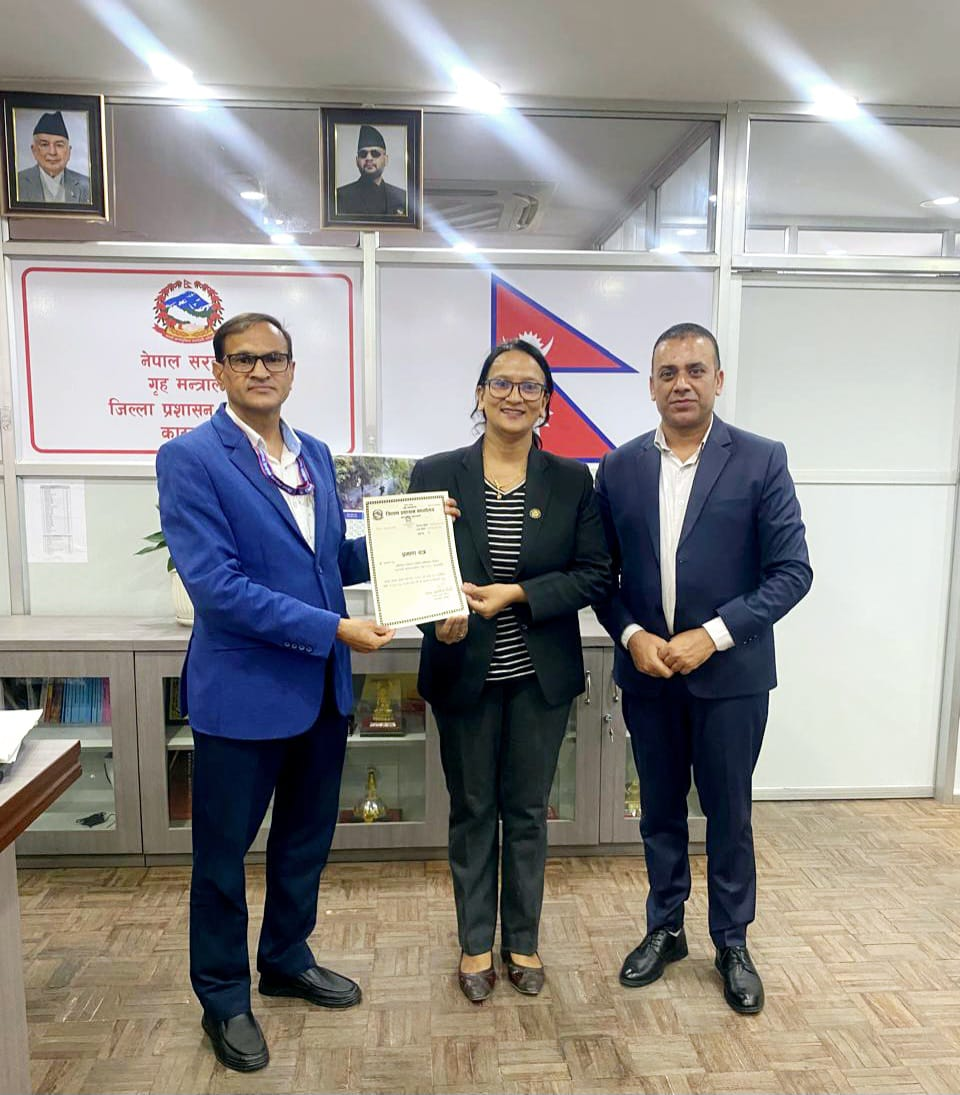
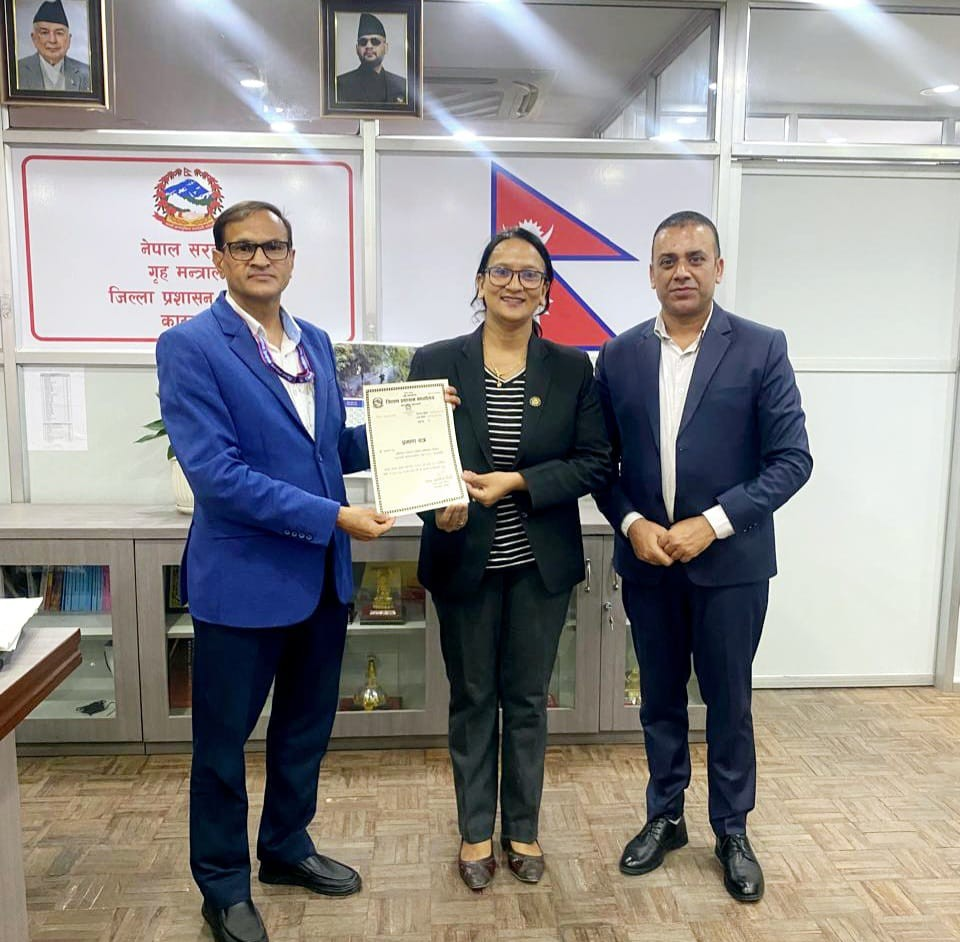
some changes in minute details

diff --git a/src/pages/Gallery.jsx b/src/pages/Gallery.jsx
@@ -26,14 +26,7 @@ const PageBanner = ({ titleEn, titleNp }) => {
 export const galleryItems = [
   { id: 10, src: '/images/gallery/meetings/photo1.jpeg', altEn: 'A constructive discussion on the website outline, content, and future direction was held at the organization’s Thapathali office. The meeting was attended by senior advocate and mediation expert Dr. Kumar Sharma Acharya, Mediation Council member Advocate Chup Bahadur Thapa, Chairperson Advocate Sushila Singhkhada, and organization officials. Held on 1 Ashoj 2083 B.S., Wednesday.', altNp: 'संस्थाकाे वेबसाइटको रूपरेखा, सामग्री तथा आगामी कार्यदिशाका सम्बन्धमा मेलमिलाप विज्ञ वरिष्ठ अधिवक्ता डा. कुमार शर्मा आचार्य र मेलमिलाप परिषद्का सदस्य अधिवक्ता चूप बहादुर थापाज्यू सहित संस्थाका अध्यक्ष अधिवक्ता शुसिला सिंखडा तथा पदाधिकारीहरुको उपस्थितिमा रचनात्मक छलफल संस्थाको थापाथलीस्थित कार्यालयमा सम्पन्न भयो। ईति संवत् २०८३ असाेज १ गते राेज ५ शुभम् ....।', color: 'from-sky to-sky-light', categoryEn: 'Meeting', categoryNp: 'बैठक' },
   { id: 1, src: '/images/gallery/milestone/cdo-registration.jpeg', altEn: 'Registered with the Chief District Officer, Kathmandu, on 4 Bhadra 2083. The registration certificate was issued by the District Administration Office.', altNp: 'जिल्ला प्रशासन कार्यालय काठमाडौंमा संस्था दर्ता गरेपश्चात् प्रमुख जिल्ला अधिकारी ईश्वर राज पौडेलबाट संस्था दर्ता प्रमाणपत्र ग्रहण गर्दै अधिकार, समता र शान्ति अभियान–नेपालकी अध्यक्ष अधिवक्ता शुशिला सिंखडा।', color: 'from-navy to-navy-light', categoryEn: 'Milestone', categoryNp: 'उपलब्धि' },
-  { id: 2, src: null, altEn: 'Mediation Workshop 2083', altNp: 'मेलमिलाप कार्यशाला २०८३', color: 'from-sky to-sky-light', categoryEn: 'Workshop', categoryNp: 'कार्यशाला' },
-  { id: 3, src: null, altEn: 'Community Awareness Program', altNp: 'सामुदायिक सचेतना कार्यक्रम', color: 'from-slate-600 to-slate-500', categoryEn: 'Awareness', categoryNp: 'सचेतना' },
-  { id: 4, src: null, altEn: ' Legal Aid Camp', altNp: ' कानुनी सहायता शिविर', color: 'from-blue-600 to-blue-500', categoryEn: 'Legal Aid', categoryNp: 'कानुनी सहायता' },
-  { id: 5, src: null, altEn: 'Peace Campaign 2083', altNp: 'शान्ति अभियान २०८३', color: 'from-cyan-700 to-cyan-600', categoryEn: 'Campaign', categoryNp: 'अभियान' },
-  { id: 6, src: null, altEn: 'Annual General Meeting 2083', altNp: 'वार्षिक साधारण सभा २०८३', color: 'from-blue-800 to-blue-700', categoryEn: 'Meeting', categoryNp: 'सभा' },
-  { id: 7, src: null, altEn: 'Child Rights Awareness Event', altNp: 'बाल अधिकार सचेतना कार्यक्रम', color: 'from-sky-700 to-sky-600', categoryEn: 'Event', categoryNp: 'कार्यक्रम' },
-  { id: 8, src: null, altEn: 'Women Empowerment Program', altNp: 'महिला सशक्तिकरण कार्यक्रम', color: 'from-slate-700 to-slate-600', categoryEn: 'Program', categoryNp: 'कार्यक्रम' },
-  { id: 9, src: null, altEn: 'Mediation Center Launch', altNp: 'मेलमिलाप केन्द्र उद्घाटन', color: 'from-blue-900 to-blue-800', categoryEn: 'Launch', categoryNp: 'उद्घाटन' },
+
 ];
 
 const Gallery = () => {
@@ -45,7 +38,7 @@ const Gallery = () => {
       <PageBanner titleEn="Photo Gallery" titleNp="फोटो ग्यालरी" />
 
       <div className="max-w-7xl mx-auto px-4 py-10">
-        <p className={`text-gray-500 text-sm mb-6 ${lang === 'np' ? 'font-nepali' : ''}`}>
+        <p className={`text-gray-500 text-sm mb-6 italic ${lang === 'np' ? 'font-nepali' : ''}`}>
           {t(
             'Photos from our programs, trainings, events, and campaigns across Nepal.',
             'नेपालभर हाम्रा कार्यक्रम, तालिम, कार्यक्रम र अभियानहरूका फोटोहरू।'

diff --git a/src/components/AboutIntro.jsx b/src/components/AboutIntro.jsx
@@ -92,7 +92,7 @@ const AboutIntro = () => {
 
   return (
     <section className="bg-gradient-to-b from-white to-slate-50 py-10 sm:py-12 lg:py-16">
-      <div className="max-w-7xl mx-auto px-4">
+      <div className="max-w-auto mx-auto px-4">
         <div className="mb-8 max-w-3xl">
           <div className="inline-flex items-center gap-2 rounded-full bg-sky/10 px-3 py-1.5 text-[10px] font-semibold uppercase tracking-[0.18em] text-sky">
             <FaCompass size={12} />
@@ -153,6 +153,7 @@ const AboutIntro = () => {
           </div>
         </div>
 
+        {/* Objectives */}
         <div className="mt-5 rounded-2xl sm:rounded-[30px] border border-slate-200 bg-white p-5 sm:p-6 md:p-8 shadow-[0_20px_60px_rgba(15,23,42,0.05)]">
           <div className="flex flex-col gap-5 md:flex-row md:items-start md:justify-between">
             <div>
@@ -180,15 +181,15 @@ const AboutIntro = () => {
                   ? t('See less', 'थोरै')
                   : t('See more', 'थप हेर्नुहोस्')}
                 <FaChevronDown className={`transition-transform duration-300 ${showAllObjectives ? 'rotate-180' : ''}`} size={11} />
-              </button>
+              </button> <br/>
+             <Link
+               to="/about"
+               className={`inline-flex shrink-0 items-center gap-2 text-sm font-semibold text-navy transition-colors hover:text-sky py-2  ${lang === 'np' ? 'font-nepali' : ''}`}
+             >
+               {t('Meet our team', 'हाम्रो टिमसँग भेट्नुहोस्')} <FaArrowRight size={11} />
+             </Link>
             </div>
 
-            <Link
-              to="/about"
-              className={`inline-flex shrink-0 items-center gap-2 text-sm font-semibold text-navy transition-colors hover:text-sky ${lang === 'np' ? 'font-nepali' : ''}`}
-            >
-              {t('Meet our team', 'हाम्रो टिमसँग भेट्नुहोस्')} <FaArrowRight size={11} />
-            </Link>
           </div>
         </div>
       </div>

diff --git a/src/components/GalleryPreview.jsx b/src/components/GalleryPreview.jsx
@@ -6,10 +6,7 @@ import { galleryItems as allGalleryItems } from '../pages/Gallery';
 const legacyGalleryItems = [
   { id: 1, src: '/images/gallery/milestone/cdo-registration.jpeg', altEn: 'Official Registration with CDO, 4 Bhadra 2083', altNp: 'जिल्ला प्रशासन कार्यालय काठमाडौंमा संस्था दर्ता गरे पश्चात...', color: 'bg-navy/80' },
   { id: 2, src: null, altEn: 'Mediation Workshop', altNp: 'मेलमिलाप कार्यशाला', color: 'bg-sky/80' },
-  { id: 3, src: null, altEn: 'Community Awareness Program', altNp: 'सामुदायिक सचेतना कार्यक्रम', color: 'bg-slate-600/80' },
-  { id: 4, src: null, altEn: 'Legal Aid Camp', altNp: 'कानुनी सहायता शिविर', color: 'bg-blue-600/80' },
-  { id: 5, src: null, altEn: 'Peace Campaign 2083', altNp: 'शान्ति अभियान २०८३', color: 'bg-cyan-700/80' },
-  { id: 6, src: null, altEn: 'Annual General Meeting', altNp: 'वार्षिक साधारण सभा', color: 'bg-blue-800/80' },
+  
 ].sort((a, b) => (b.src ? 1 : 0) - (a.src ? 1 : 0));
 
 // The homepage preview uses the main gallery source of truth, so every real
@@ -21,7 +18,7 @@ const GalleryPreview = () => {
 
   return (
     <section className="bg-slate-50 py-16">
-      <div className="max-w-7xl mx-auto px-4">
+      <div className="max-w-auto mx-auto px-4">
         <div className="mb-8 flex flex-col gap-3 sm:flex-row sm:items-end sm:justify-between">
           <div>
             <p className={`text-xs font-semibold uppercase tracking-[0.2em] text-sky ${lang === 'np' ? 'font-nepali' : ''}`}>
@@ -40,7 +37,7 @@ const GalleryPreview = () => {
           </Link>
         </div>
 
-        <div className="grid grid-cols-2 gap-3 sm:grid-cols-3 lg:grid-cols-6">
+        <div className="grid grid-cols-2 gap-3 sm:grid-cols-3 lg:grid-cols-4">
           {galleryItems.map((item) => (
             <Link
               key={item.id}

diff --git a/src/pages/Home.jsx b/src/pages/Home.jsx
@@ -24,19 +24,15 @@ const Home = () => {
         <ChairpersonMessage />
       </ScrollReveal>
 
+      {/** Main content */}
+      
       {/* Main two-column content */}
       <ScrollReveal delay={90}>
-        <div className="max-w-7xl mx-auto px-4 py-4 sm:py-6 grid grid-cols-1 lg:grid-cols-3 gap-4 sm:gap-6">
-        {/* Left: Notices (takes 2/3) */}
-        <div className="lg:col-span-2">
+        <div className="grid grid-cols-1 gap-6 md:grid-cols-2">
           <NoticesSection />
-        </div>
-
-        {/* Right: Services (takes 1/3) */}
-        <div className="lg:col-span-1 flex flex-col gap-0">
           <ServicesSection />
         </div>
-        </div>
+        
       </ScrollReveal>
 
       {/* Full-width highlights */}

diff --git a/src/pages/Membership.jsx b/src/pages/Membership.jsx
@@ -64,6 +64,11 @@ const Membership = () => {
                 <p className={`mt-3 text-sm leading-relaxed text-gray-600 ${lang === 'np' ? 'font-nepali text-base' : ''}`}>
                   {lang === 'en' ? category.detailEn : category.detailNp}
                 </p>
+                {category.linkEn && category.linkNp && category.linkUrl && (
+                  <Link to={category.linkUrl} className={`mt-4 inline-flex items-center gap-2 text-sm font-semibold text-sky hover:text-sky-dark ${lang === 'np' ? 'font-nepali' : ''}`}>
+                    {lang === 'en' ? category.linkEn : category.linkNp} <FaArrowRight size={12} />
+                  </Link>
+                )}
               </article>
             ))}
           </div>

diff --git a/src/data/siteContent.js b/src/data/siteContent.js
@@ -602,6 +602,7 @@ export const membershipInfo = {
       titleEn: 'Founding Member', titleNp: 'संस्थापक सदस्य',
       detailEn: 'Recognizes the founding members of the organization.',
       detailNp: 'संस्थाका संस्थापक सदस्यलाई जनाउने सदस्यता।',
+      linkEn: 'Meet the founding members', linkNp: 'संस्थापक सदस्यहरूको सूची हेर्नुहोस्', linkUrl: '/about#founding-members',
     },
   ],
   processEn: 'Please contact REPC–NEPAL for the application form, eligibility requirements, and current payment instructions before applying.',

diff --git a/src/components/Header.jsx b/src/components/Header.jsx
@@ -131,7 +131,7 @@ const Header = ({ mobileOpen, onMobileToggle }) => {
         <Link to="/" className="flex items-center gap-2 sm:gap-3 min-w-0">
           
           {/* UPDATED: Dynamic Emblem based on language */}
-          <div className="w-16 h-16 sm:w-20 sm:h-20 md:w-24 md:h-24 shrink-0 flex items-center justify-center">
+          <div className="w-24 h-24 sm:w-20 sm:h-20 md:w-24 md:h-24 shrink-0 flex items-center justify-center">
             <img
               key={lang} // CRITICAL: Forces React to reset the image element when language changes
               src={lang === 'np' ? '/logoNp.png' : '/logoEn.png'}

diff --git a/src/components/ChairpersonMessage.jsx b/src/components/ChairpersonMessage.jsx
@@ -9,7 +9,7 @@ const ChairpersonMessage = () => {
 
   return (
     <section className="bg-white py-12 sm:py-14">
-      <div className="max-w-4xl mx-auto px-4">
+      <div className="max-w-auto mx-auto px-4">
         <div className="border-l-4 border-sky bg-slate-50 px-5 py-6 sm:px-8 sm:py-8">
           <FaQuoteLeft className="mb-4 text-sky/70" size={22} />
           <p className={`text-justify text-lg leading-relaxed text-navy sm:text-xl ${lang === 'np' ? 'font-nepali' : ''}`}>
